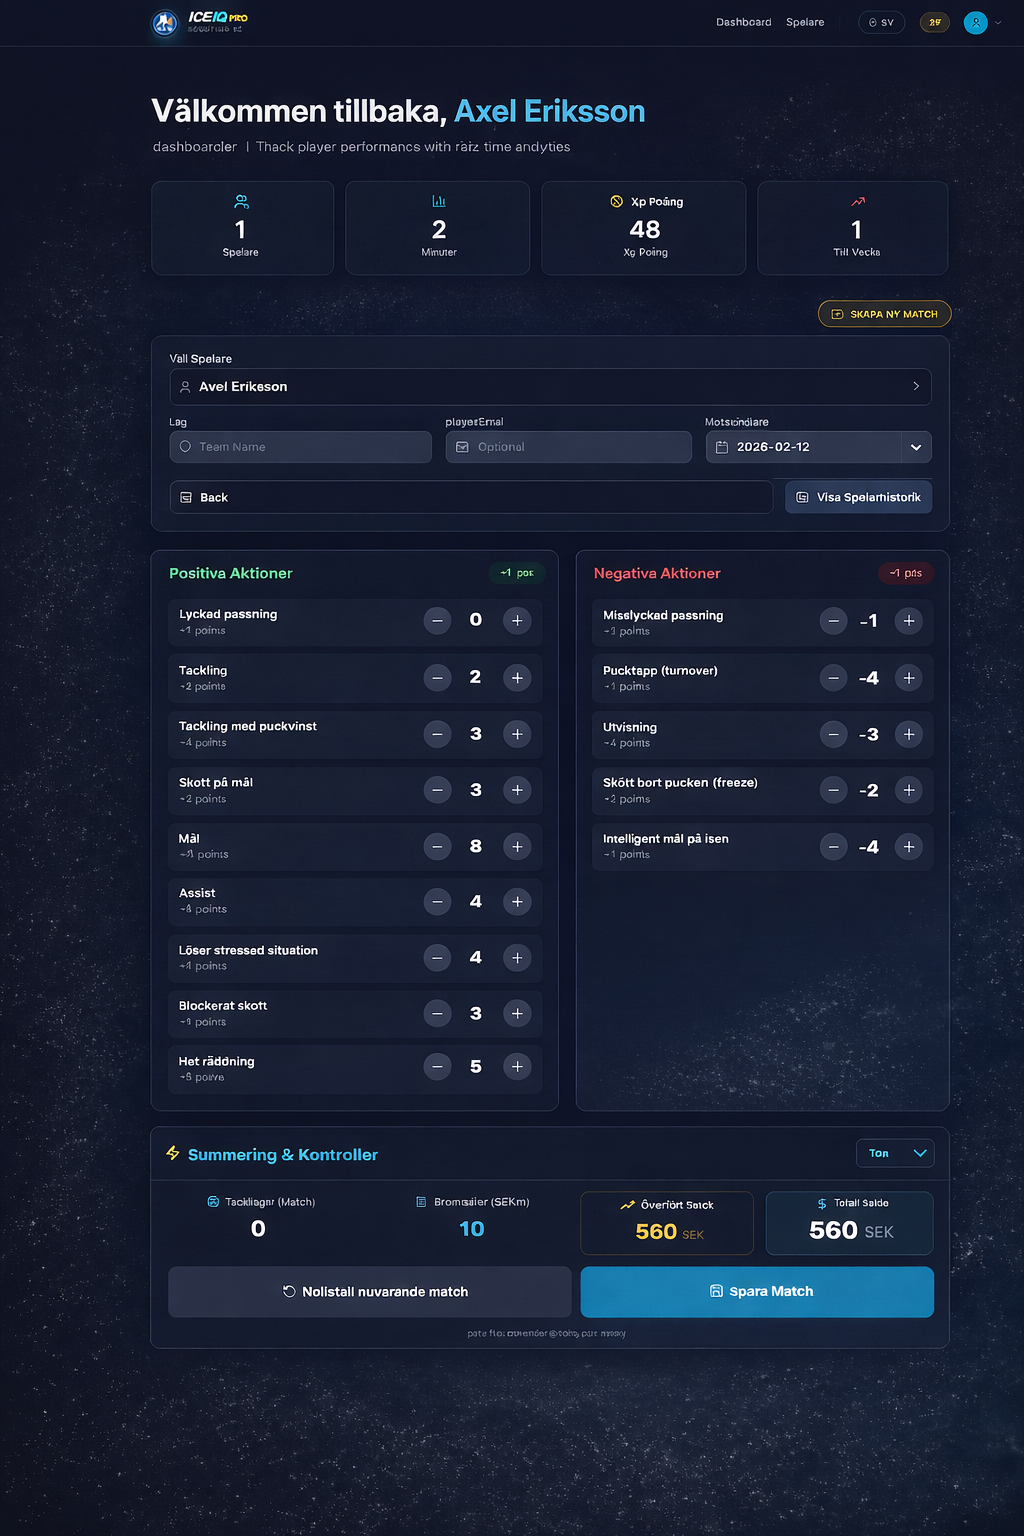
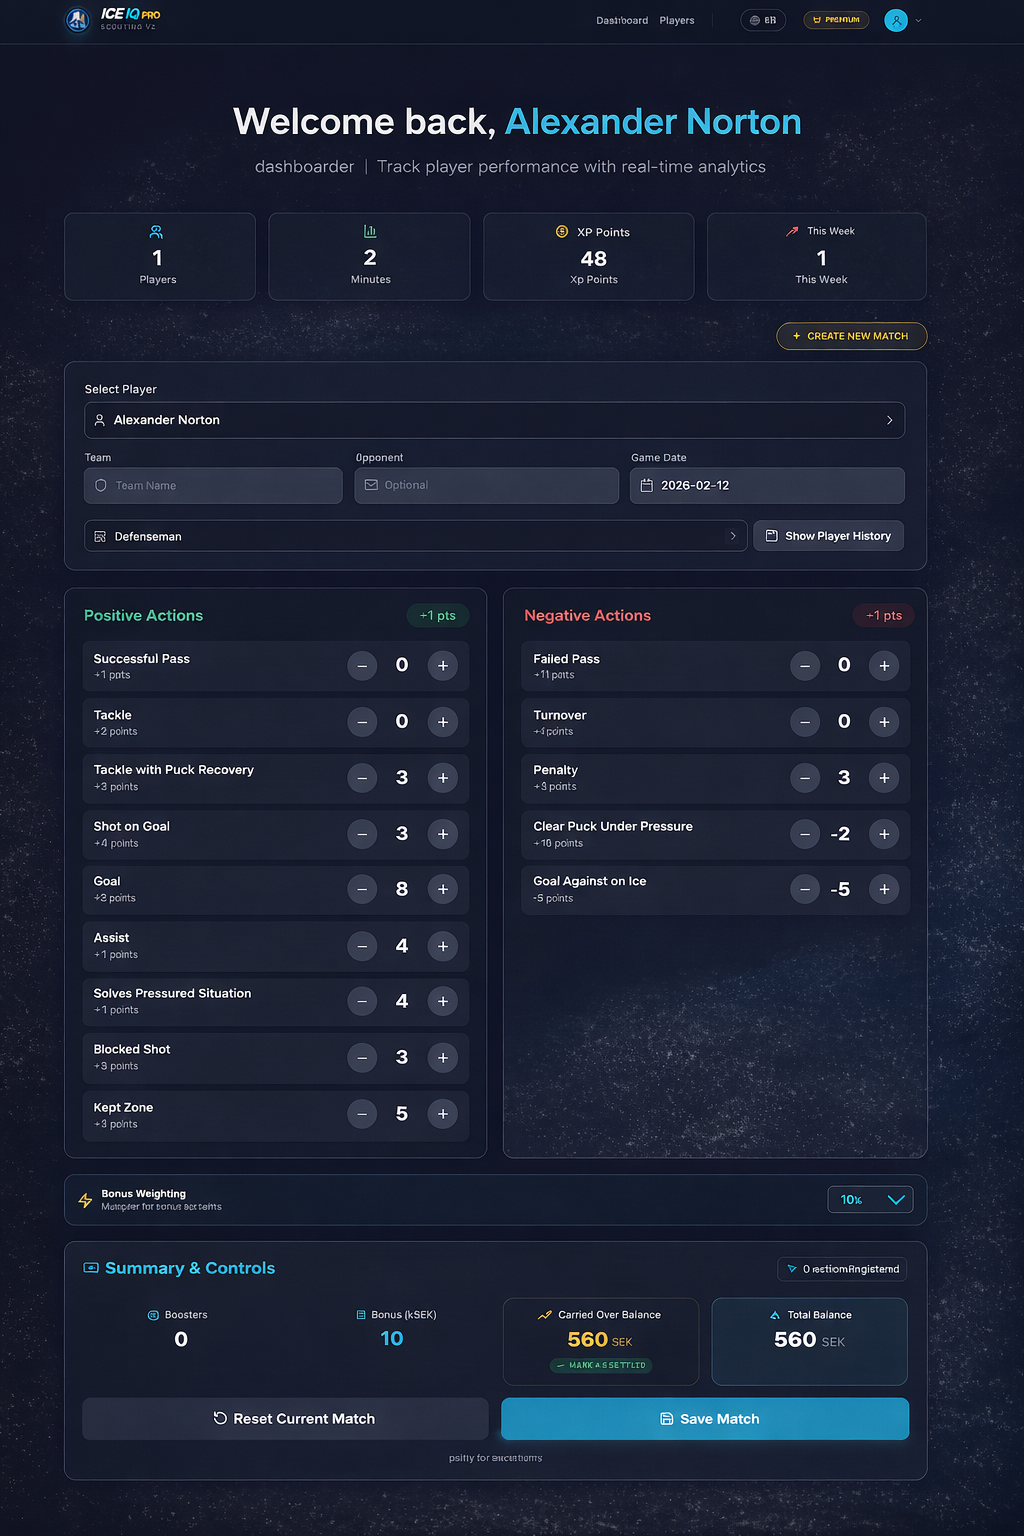
new image

diff --git a/functions/index.js b/functions/index.js
@@ -1,27 +1,35 @@
 const functions = require("firebase-functions");
 const admin = require("firebase-admin");
 const Stripe = require("stripe");
-// Importera verktyget för att hantera "Secrets"
+const { VertexAI } = require('@google-cloud/vertexai'); // <-- NY: Importera Vertex AI
 const { defineSecret } = require('firebase-functions/params');
 
 admin.initializeApp();
+const db = admin.firestore(); // Spara referens till db
 
-// Definiera dina secrets (dessa kopplas till Google Cloud Secret Manager)
+// Definiera dina secrets
 const stripeSecretKey = defineSecret('STRIPE_SECRET_KEY');
 const stripeWebhookSecret = defineSecret('STRIPE_WEBHOOK_SECRET');
 
 // --- KONFIGURATION ---
 const APP_URL = "https://iceiq-v2.web.app"; 
 const APP_ID = "default-app-id";
+const PROJECT_ID = "squareverse-36179"; // <-- Dinu projekt-ID
 
 // --- PRIS IDn ---
 const monthlyPriceId = "price_1SG0PzG6k6tU2YpwlL1sRjxo"; 
 const yearlyPriceId = "price_1SG0R0G6k6tU2Ypw8v1wALpq"; 
 
+// --- INITIERA VERTEX AI (GEMINI) ---
+const vertex_ai = new VertexAI({
+  project: PROJECT_ID,
+  location: 'us-central1' // Vi kör us-central1 för bäst tillgänglighet på Gemini
+});
+
+// --- STRIPE HELPER ---
 let stripe;
 const getStripe = () => {
   if (!stripe) {
-    // Vi hämtar värdet genom .value() från vår secret
     const secretKey = stripeSecretKey.value();
     if (!secretKey) throw new Error("Stripe secret key missing.");
     stripe = new Stripe(secretKey, { apiVersion: "2023-10-16" });
@@ -30,10 +38,7 @@ const getStripe = () => {
 };
 
 const getUsersCollection = () => {
-  return admin.firestore()
-    .collection("artifacts")
-    .doc(APP_ID)
-    .collection("users");
+  return db.collection("artifacts").doc(APP_ID).collection("users");
 };
 
 const getOrCreateCustomer = async (userId, email) => {
@@ -56,10 +61,115 @@ const getOrCreateCustomer = async (userId, email) => {
   return customer.id;
 };
 
-/**
- * 1. Skapa Checkout Session
- * .runWith({ secrets: [...] }) krävs för att funktionen ska få läsa nycklarna
- */
+// ==========================================
+//  AI COACH FUNCTION (NY)
+// ==========================================
+exports.askCoach = functions.https.onCall(async (data, context) => {
+  // 1. Säkerhetskoll
+  if (!context.auth) {
+    throw new functions.https.HttpsError('unauthenticated', 'Du måste vara inloggad.');
+  }
+
+  const userId = context.auth.uid;
+  const { playerStats, question } = data;
+
+  // 2. Hämta användaren
+  const userRef = getUsersCollection().doc(userId);
+  const userDoc = await userRef.get();
+
+  if (!userDoc.exists) {
+    throw new functions.https.HttpsError('not-found', 'Användare hittades inte.');
+  }
+
+  const userData = userDoc.data();
+  
+  // Kontrollera plan (Premium eller Elite)
+  // Om fältet saknas, anta 'free' om de inte har subscriptionStatus active
+  const isSubscribed = userData.subscriptionStatus === 'active';
+  const plan = userData.subscriptionPlan || (isSubscribed ? 'premium' : 'free');
+
+  // Hantera krediter (Om fältet saknas, ge 10 "test-krediter" om man är betalande)
+  let credits = userData.aiCredits;
+  if (credits === undefined && isSubscribed) {
+      credits = 10;
+      await userRef.update({ aiCredits: 10 }); // Spara initieringsvärdet
+  } else if (credits === undefined) {
+      credits = 0;
+  }
+
+  // 3. Spärrar
+  if (!isSubscribed && plan === 'free') {
+     throw new functions.https.HttpsError('permission-denied', 'Uppgradera till Premium för att använda coachen.');
+  }
+
+  if (credits <= 0) {
+    throw new functions.https.HttpsError('resource-exhausted', 'Slut på krediter för denna månad.');
+  }
+
+  // 4. Välj modell
+  // Elite = Pro (Smartare), Premium = Flash (Snabbare)
+  const modelName = plan === 'elite' 
+    ? 'gemini-1.5-pro-preview-0409' 
+    : 'gemini-1.5-flash-preview-0514';
+
+  const generativeModel = vertex_ai.preview.getGenerativeModel({
+    model: modelName,
+    generationConfig: {
+      maxOutputTokens: 1000,
+      temperature: 0.7,
+    },
+  });
+
+  // 5. Prompten
+  const systemPrompt = `
+    Du är en erfaren ishockeytränare som heter "Ice IQ Coach". 
+    Din uppgift är att analysera spelarstatistik och ge konkreta, konstruktiva råd.
+    
+    Här är spelarens statistik:
+    ${JSON.stringify(playerStats)}
+    
+    ${question ? `Spelarens specifika fråga: "${question}"` : 'Ge en analys av styrkor och svagheter.'}
+
+    Svara kortfattat, proffsigt och på Svenska. Använd emojis 🏒.
+    ${plan === 'elite' ? 'Gör en djupgående taktisk analys.' : 'Håll det enkelt och motiverande.'}
+  `;
+
+  try {
+    const req = {
+      contents: [{role: 'user', parts: [{text: systemPrompt}]}],
+    };
+
+    const result = await generativeModel.generateContent(req);
+    const response = result.response;
+    
+    if (!response.candidates || response.candidates.length === 0) {
+        throw new Error("Inget svar från AI.");
+    }
+
+    const text = response.candidates[0].content.parts[0].text;
+
+    // 6. Dra av kredit
+    await userRef.update({
+      aiCredits: admin.firestore.FieldValue.increment(-1)
+    });
+
+    return { 
+      success: true, 
+      analysis: text, 
+      creditsLeft: credits - 1 
+    };
+
+  } catch (error) {
+    console.error("AI Error:", error);
+    throw new functions.https.HttpsError('internal', 'Coachen kunde inte svara just nu.');
+  }
+});
+
+
+// ==========================================
+//  STRIPE FUNCTIONS (DINA GAMLA)
+// ==========================================
+
 exports.createStripeCheckoutSession = functions
   .runWith({ secrets: [stripeSecretKey] })
   .https.onCall(async (data, context) => {
@@ -91,9 +201,6 @@ exports.createStripeCheckoutSession = functions
     }
   });
 
-/**
- * 2. Skapa Customer Portal Session
- */
 exports.createStripePortalSession = functions
   .runWith({ secrets: [stripeSecretKey] })
   .https.onCall(async (data, context) => {
@@ -120,9 +227,6 @@ exports.createStripePortalSession = functions
     }
   });
 
-/**
- * 3. Radera Stripe-konto
- */
 exports.deleteUserStripeAccount = functions
   .runWith({ secrets: [stripeSecretKey] })
   .https.onCall(async (data, context) => {
@@ -146,15 +250,13 @@ exports.deleteUserStripeAccount = functions
     }
   });
 
-/**
- * 4. Stripe Webhook
- */
+// Uppdaterad Webhook för att sätta default-krediter vid köp
 exports.stripeWebhook = functions
   .runWith({ secrets: [stripeSecretKey, stripeWebhookSecret] })
   .https.onRequest(async (req, res) => {
     const stripeInstance = getStripe();
     const signature = req.headers["stripe-signature"];
-    const webhookSecret = stripeWebhookSecret.value(); // Hämtar värdet säkert
+    const webhookSecret = stripeWebhookSecret.value();
 
     let event;
     try {
@@ -181,11 +283,13 @@ exports.stripeWebhook = functions
             stripeCustomerId: customerId,
             subscriptionStatus: "active",
             subscriptionId: subscriptionId,
-            subscriptionPlan: "premium",
+            subscriptionPlan: "premium", // Vi utgår från att allt är premium just nu
             subscriptionInterval: interval,
-            subscriptionEnd: new Date(subscription.current_period_end * 1000).toISOString()
+            subscriptionEnd: new Date(subscription.current_period_end * 1000).toISOString(),
+            // NYTT: Ge 15 krediter när man köper premium!
+            aiCredits: 15 
           }, { merge: true });
-          console.log(`✅ Premium activated for ${userId}`);
+          console.log(`✅ Premium activated for ${userId} with 15 AI credits`);
         }
       }
 
@@ -203,7 +307,8 @@ exports.stripeWebhook = functions
         if (!snapshot.empty) {
           await snapshot.docs[0].ref.update({
             subscriptionStatus: "cancelled",
-            subscriptionPlan: "free"
+            subscriptionPlan: "free",
+            aiCredits: 0 // Ta bort krediter om man säger upp
           });
           console.log(`❌ Subscription deleted for ${customerId}`);
         }
